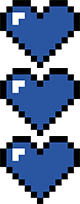
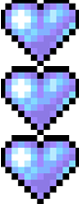
Add new picture for hp

diff --git a/src/ninja/KeyBoardNinja.cpp b/src/ninja/KeyBoardNinja.cpp
@@ -20,7 +20,7 @@ bool start_game(int& showMenu)
     float deley = 1;
     Clock clock;
 
-    std::ifstream inf_images("src/ninja/images_names.txt");
+    std::ifstream inf_images("src/ninja/static_images_names.txt");
     std::string str[help::line_count];
     if (!(inf_images.is_open())) {
         inf_images.close();
